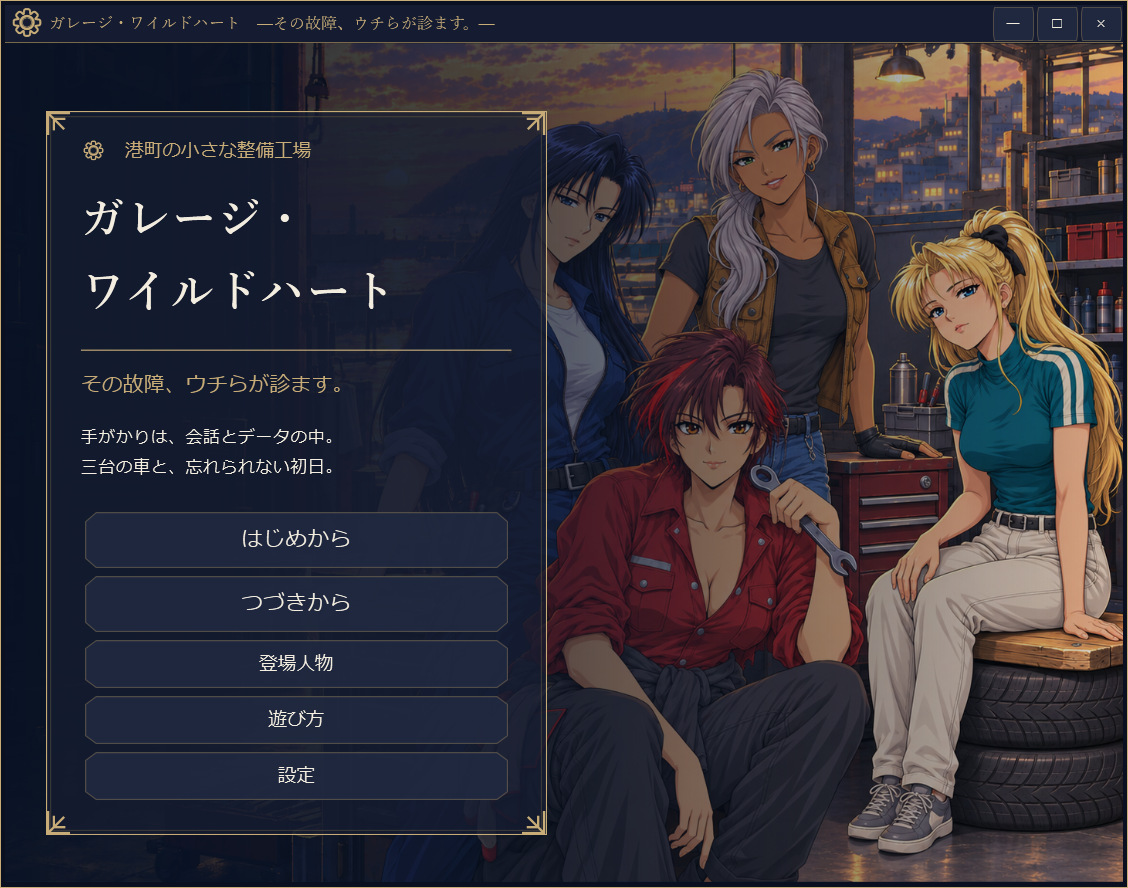
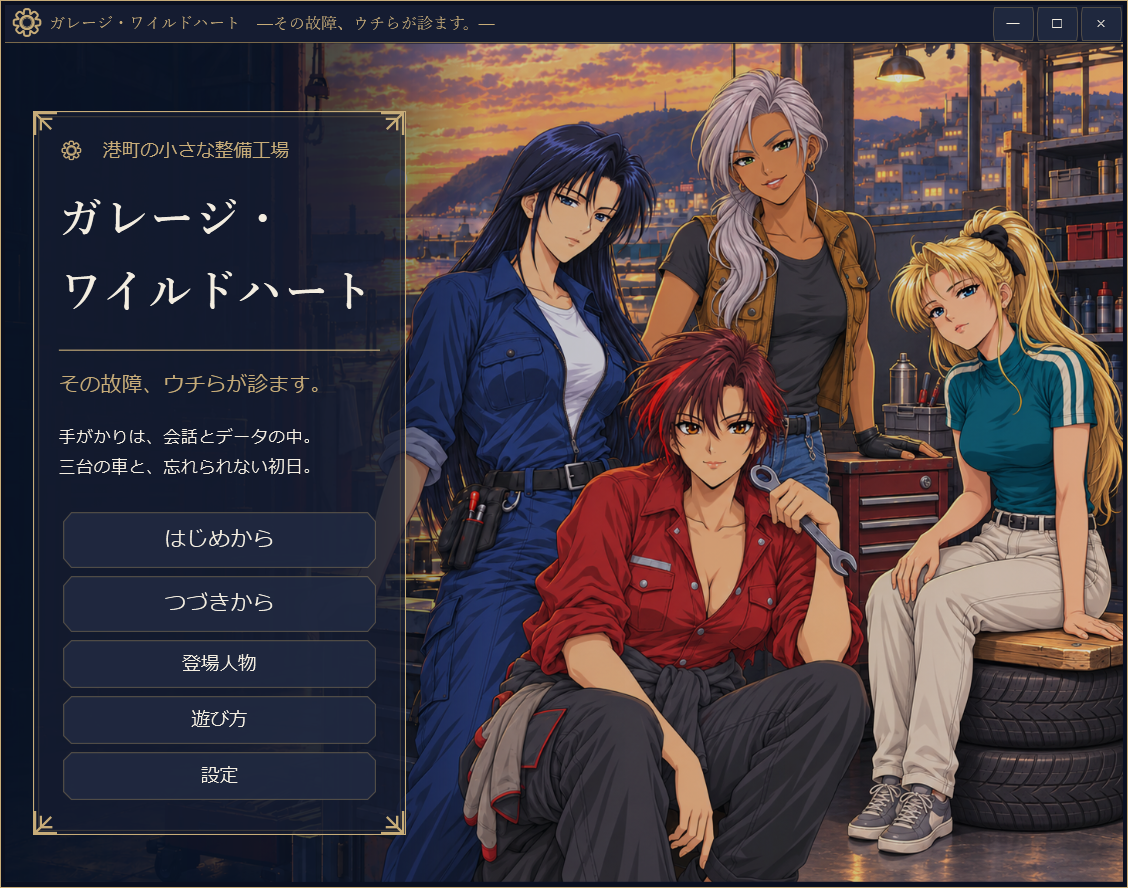
Publish v1.10.30 title menu update [skip ci] [skip actions]

diff --git a/検証.md b/検証.md
@@ -1,35 +1,18 @@
 # 動作確認について
 
-v1.10.29は、Windows上で起動、会話や検査の操作、セーブからの再開、全3話からエンディングまでの進行を確認しています。ゲームの実行に必要なものは同梱しています。
+v1.10.30は、Windows上で起動、タイトル画面からの操作、保存した場面からの再開を確認しています。タイトルの文字サイズとボタンの高さを保って、レイが見えやすい配置へ調整しました。
 
-文字を大きくした表示や、小さなウィンドウでの表示も確認しています。ただし、すべてのPCやモニターでの動作を確認したものではありません。
-
-今回の変更は[更新内容](release-notes/v1.10.29.md)、ダウンロードしたZIPを確認する方法は[遊び方](遊び方.md#ダウンロードしたファイルを確認する)をご覧ください。
+今回の変更は[更新内容](release-notes/v1.10.30.md)、ダウンロードしたZIPの確認方法は[遊び方](遊び方.md#ダウンロードしたファイルを確認する)をご覧ください。
 
 <details>
 <summary>確認した内容・方法の詳細</summary>
 
 ## 配布版の確認（2026年11月2日）
 
-対象は `GarageWildHeart-1.10.29-win-x64.zip` です。
+起動・タイトル操作・保存再開に関する203項目が成功しました（presentation 130、rereview 63、独立した再起動10）。配布ZIPのmanifest8件と梱包素材40件を照合し、配布9ファイルの個人情報チェックは検出0件でした。通常の保存・設定3ファイルは検証前後で一致しました。
 
-- Core：1,306項目成功、失敗0。
-- 解凍した実WPFアプリ：15系統・6,081項目成功。全3話を選択・検査・修理・修理後確認で進め、エンディングへ到達。
[1 lines of base64/hex data omitted]
-- manifest 8件、梱包素材40件を照合。採用したタイトル素材も候補09と一致。
-- 配布9ファイルと梱包前素材・ソースの個人パス・PC名・秘密情報検査で検出0件。
-- 同梱.NET 10.0.13で起動。通常の保存・設定3ファイルは検証前後で一致。
-- 非表示の専用Windowsデスクトップを使用し、前面化なし・入力デスクトップ不変。終了時に専用デスクトップを解放。
-- 通常／最小サイズ、大きい文字、100／150／200％相当の描画を確認。タイトル画面のナツの手・リンの座面と脚・メニューの重なりを目視した。
+通常表示と100／150／200％相当の描画で、タイトルの折り返し・5つのボタン・レイの顔と上半身を目視確認しました。非表示の専用Windowsデスクトップを使い、前面化と入力デスクトップの切替はなく、終了時に解放しています。物理マウスの操作と実モニターのDPI切替は未確認です。
 
-GitHub Actionsは使用せず、ローカルで検証しています。
-
-## 公開後の確認（2026年11月2日）
-
-ログイン情報を使わずにZIPとSHA-256を再ダウンロードし、両ファイルのサイズ・ハッシュがローカル配布物とGitHubの資産ダイジェストに一致しました。チェックサムの内容、公開文書と画面画像の取得も確認しています。公開リポジトリのGitHub Actionsは無効、実行件数は0件です。
-
-## 未確認の範囲
-
-物理マウスによる全操作、実モニター間のDPI切替、すべての分岐を人が通して遊ぶ検証、初見プレイヤーの理解度測定は実施していません。描画倍率の検査は実モニターの設定切替とは異なります。
+すべてのPCやモニターでの動作を確認したものではありません。GitHub Actionsは使用せず、ローカルで検証しています。
 
 </details>

diff --git a/README.md b/README.md
@@ -10,8 +10,8 @@
 
 **Windows 64bit版 / 日本語 / オフラインで遊べます。**
 
-- **[ゲームをダウンロード（v1.10.29・ZIP・約162 MB）](https://github.com/mezon-web/GarageWildHeart-Releases/releases/download/v1.10.29/GarageWildHeart-1.10.29-win-x64.zip)**
-- [遊び方](遊び方.md) · [更新内容](https://github.com/mezon-web/GarageWildHeart-Releases/releases/tag/v1.10.29)
+- **[ゲームをダウンロード（v1.10.30・ZIP・約162 MB）](https://github.com/mezon-web/GarageWildHeart-Releases/releases/download/v1.10.30/GarageWildHeart-1.10.30-win-x64.zip)**
+- [遊び方](遊び方.md) · [更新内容](https://github.com/mezon-web/GarageWildHeart-Releases/releases/tag/v1.10.30)
 
 ![ガレージ・ワイルドハートのタイトル画面](images/title.png)
 
@@ -29,7 +29,7 @@
 
 ## ゲーム画面
 
-v1.10.29のプレイ画面です。
+プレイ画面です。
 
 ### 会話と選択肢
 
@@ -68,8 +68,8 @@ v1.10.29のプレイ画面です。
 ## 詳しい案内
 
 - [遊び方・保存データ・ファイルの確認](遊び方.md)
-- [v1.10.29の更新内容](release-notes/v1.10.29.md) · [過去の配布版](https://github.com/mezon-web/GarageWildHeart-Releases/releases)
-- [動作確認について](検証.md) · [ZIPのSHA-256](https://github.com/mezon-web/GarageWildHeart-Releases/releases/download/v1.10.29/GarageWildHeart-1.10.29-win-x64.zip.sha256)
+- [v1.10.30の更新内容](release-notes/v1.10.30.md) · [過去の配布版](https://github.com/mezon-web/GarageWildHeart-Releases/releases)
+- [動作確認について](検証.md) · [ZIPのSHA-256](https://github.com/mezon-web/GarageWildHeart-Releases/releases/download/v1.10.30/GarageWildHeart-1.10.30-win-x64.zip.sha256)
 
 本作の車両や診断値は架空のものです。実車の整備には使用しないでください。
 

diff --git a/release-notes/v1.10.30.md b/release-notes/v1.10.30.md
@@ -1,0 +1,17 @@
+# GarageWildHeart v1.10.30
+
+2026年11月2日公開。
+
+- タイトル画面のメニューを細くして、レイの顔や上半身が見えやすくなりました。
+- メニューの右側に広がる暗い影も狭めました。タイトルの文字サイズとボタンの高さはそのままです。
+
+## ダウンロードと起動
+
+- [GarageWildHeart-1.10.30-win-x64.zip](https://github.com/mezon-web/GarageWildHeart-Releases/releases/download/v1.10.30/GarageWildHeart-1.10.30-win-x64.zip)
+- [SHA-256ファイル](https://github.com/mezon-web/GarageWildHeart-Releases/releases/download/v1.10.30/GarageWildHeart-1.10.30-win-x64.zip.sha256)
+
+Windows 64bit向けです。ZIPをすべて展開し、`GarageWildHeart.exe` を開いてください。動作に必要なものは同梱しており、オフラインで遊べます。`GameData` フォルダーも実行ファイルと同じ場所に置いてください。
+
+v1.10.25以降のセーブデータで続きから遊べます。v1.10.24以前の途中セーブは引き継げないため、「はじめから」で開始してください。
+
+詳しい操作は[遊び方](../遊び方.md)、動作確認の内容は[こちら](../検証.md)をご覧ください。
